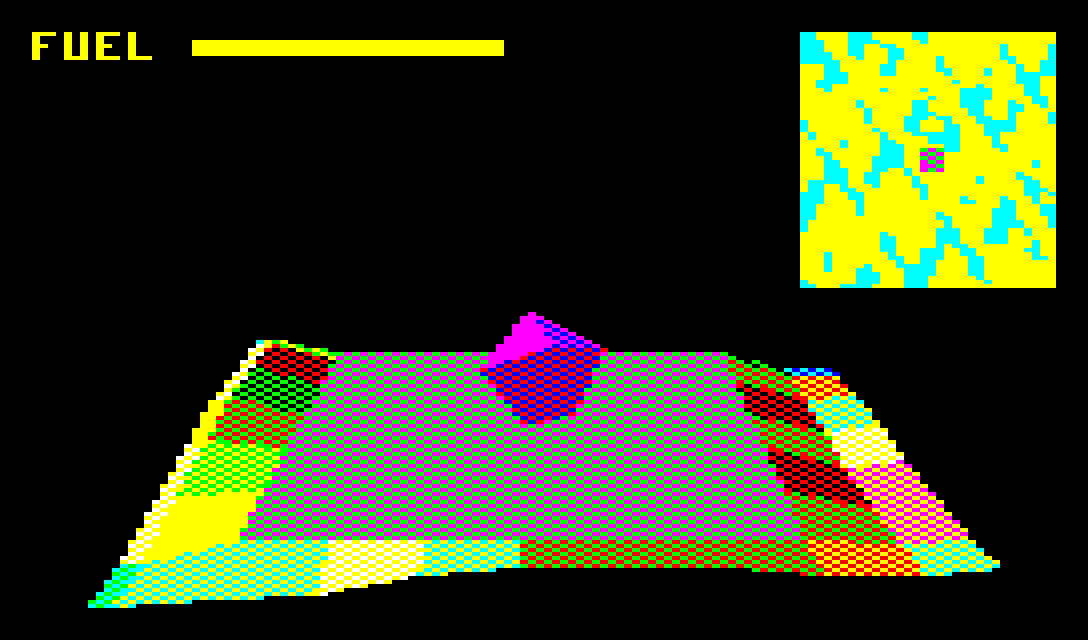
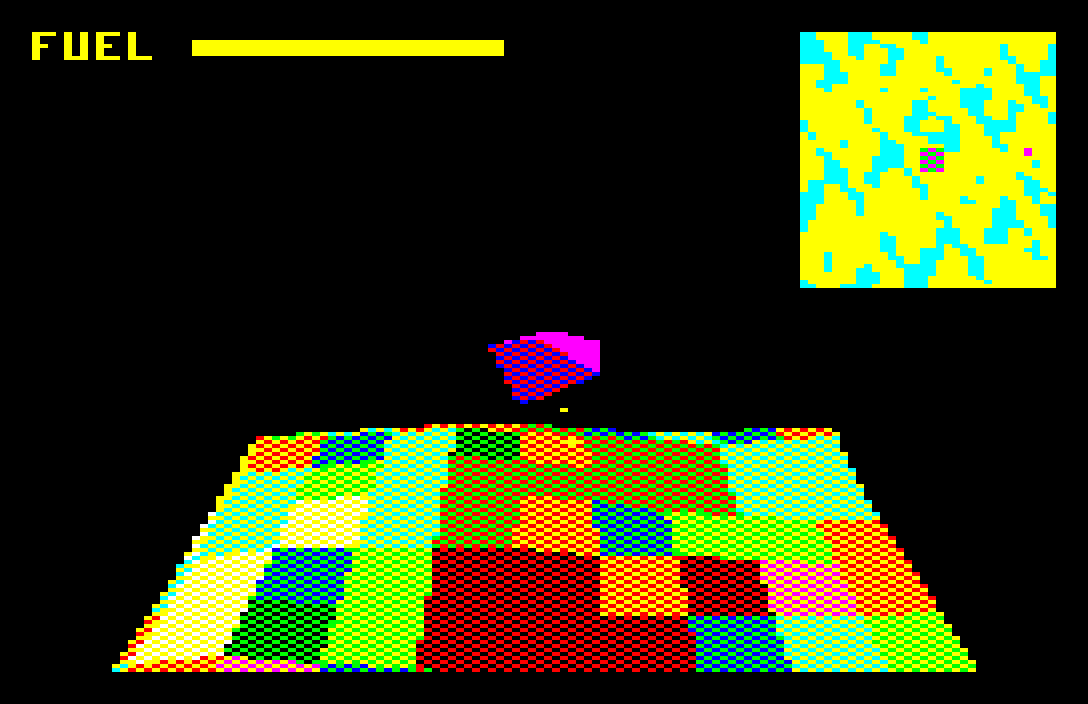
README: screenshots at varied map locations and headings

Changed region(s): [[0.0625, 0.4688, 0.9375, 0.9688], [0.7188, 0.0312, 0.9688, 0.4688], [0.0312, 0.0312, 0.4688, 0.0938]]

diff --git a/README.md b/README.md
@@ -1,6 +1,6 @@
 # Lander for the BBC Micro
 
-![The arc version in flight](docs/img/arc.png)
+![The arc version in flight](docs/img/hero.png)
 
 A Lander-style landscape and flight: a filled patchwork of land, a ship, fuel
 and a map. One source tree builds two programs, and one disc carries both:
@@ -30,8 +30,9 @@ Each build comes in four colour versions:
 | **`nula`** | **`arc`** |
 | ![nula](docs/img/nula.png) | ![arc](docs/img/arc.png) |
 
-The same moment of the same flight in each version: the sideways RAM build on
-a Model B with a VideoNuLA, in jsbeeb.
+The sideways RAM build on a Model B with a VideoNuLA, in jsbeeb. Each picture
+is a different place on the map and a different heading; the ship was put
+there by writing its position and direction, then flown.
 
 ## Running
 
